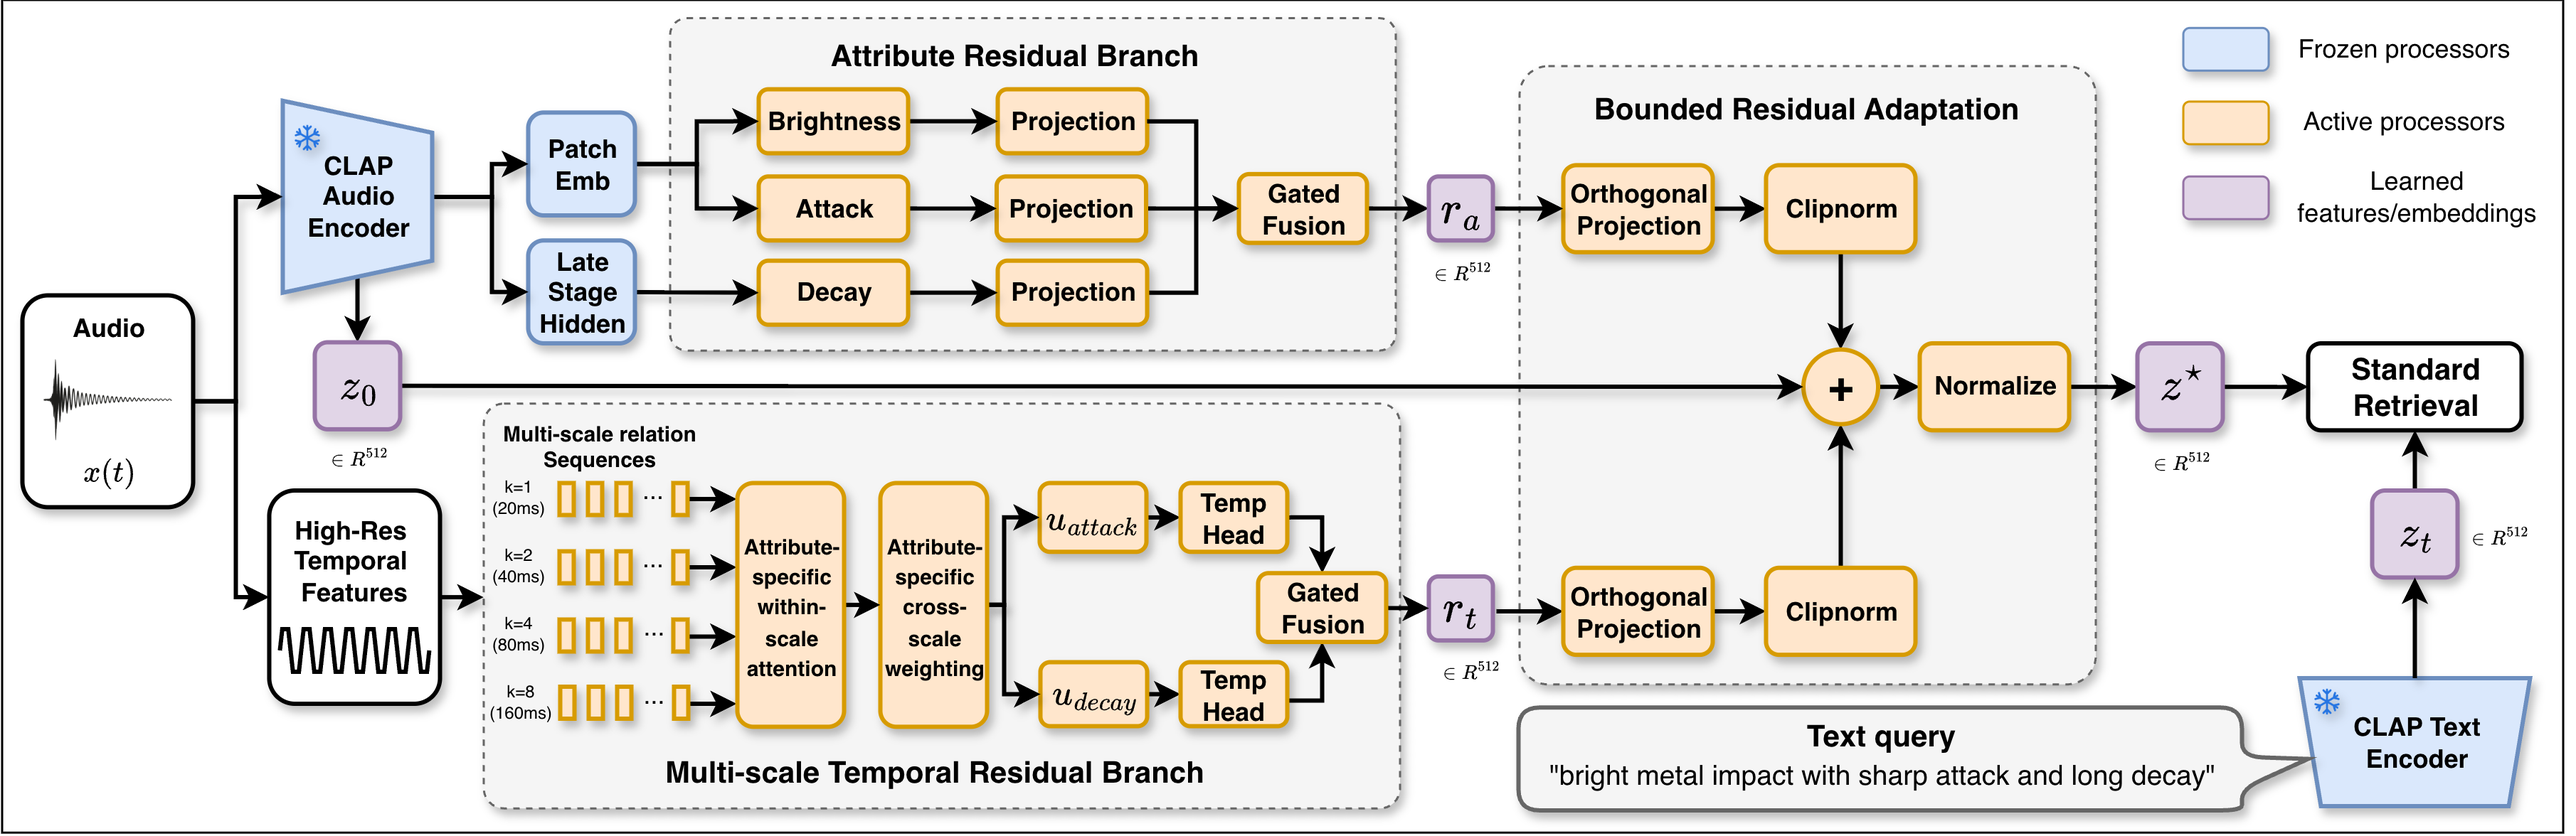
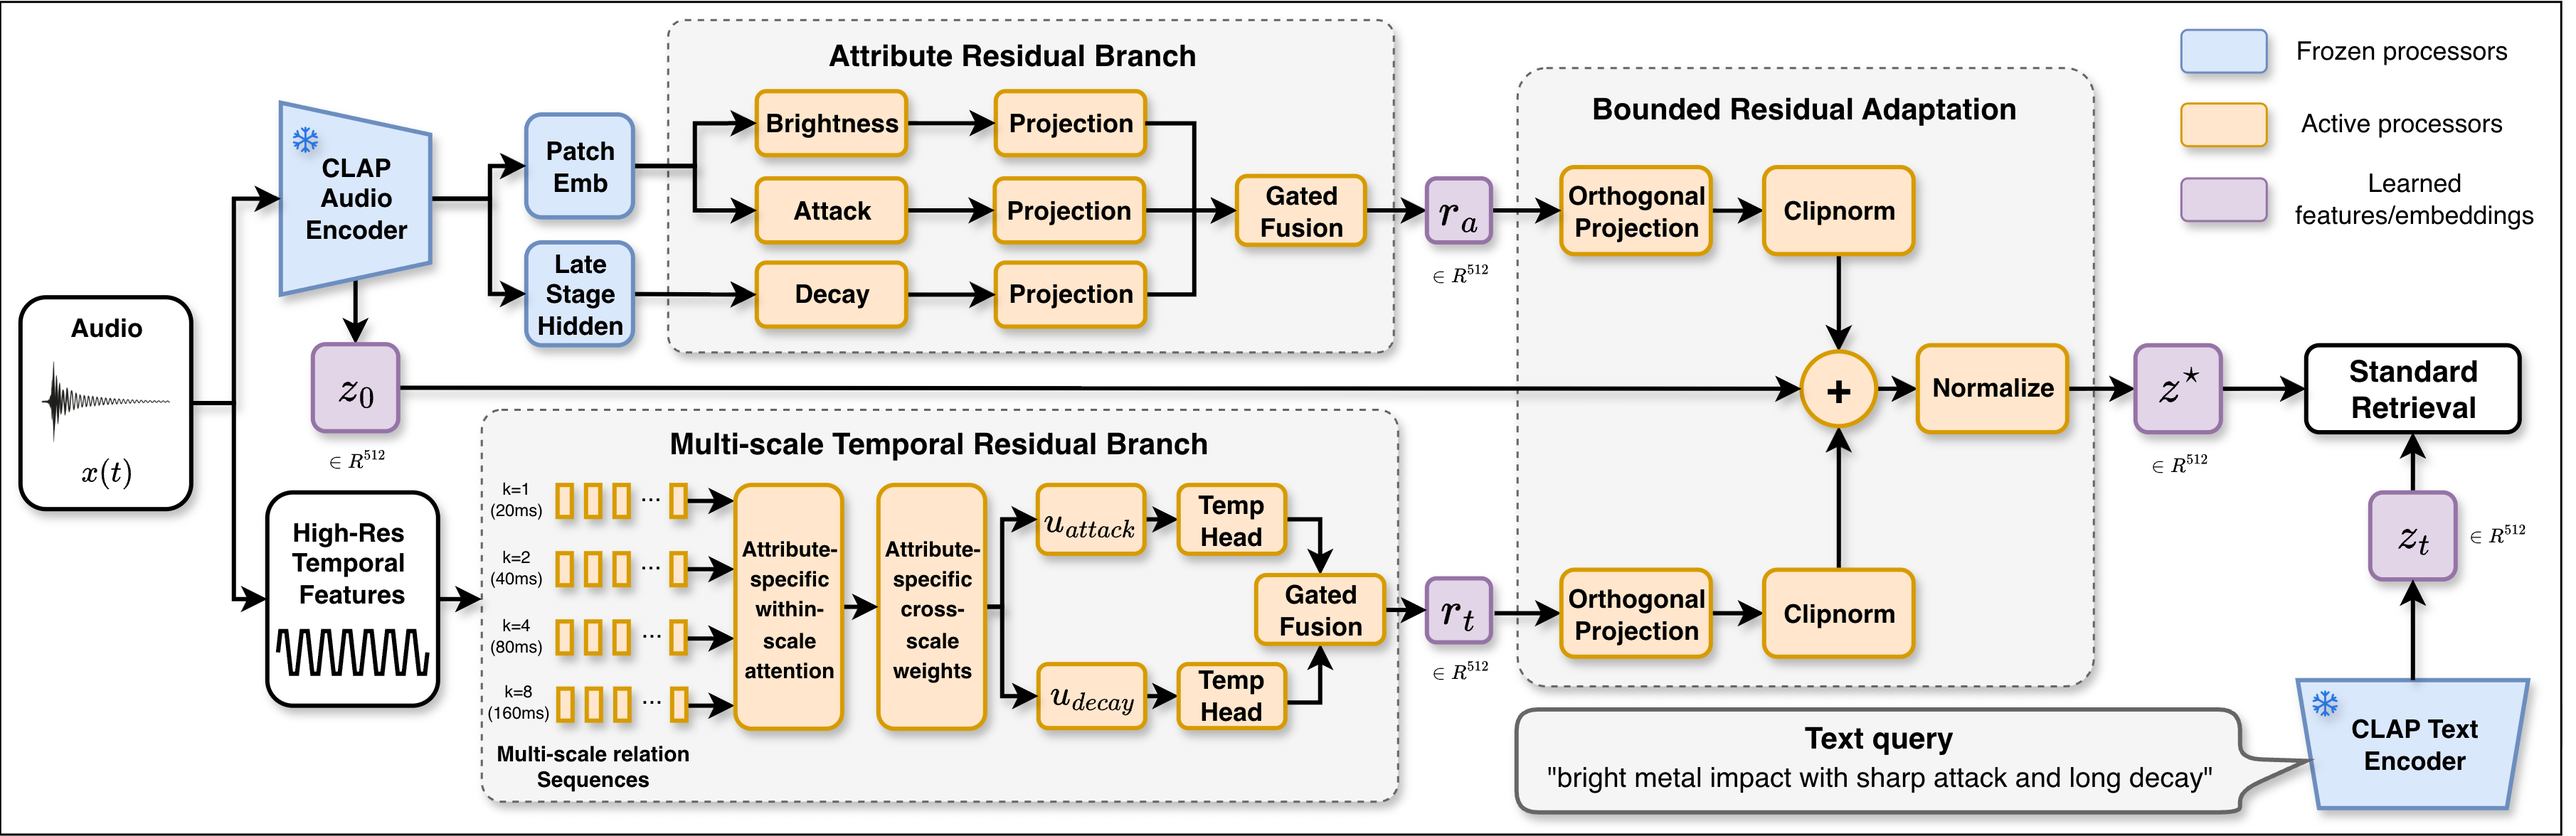
Align results page with the paper's main table
Replace the condensed ablation table with the paper's Table 1: baselines and
ResiCLAP ablations with nDCG@10 resolved per attribute, plus the tuned-budget
headline row. Drop the preservation-tradeoff figure in favour of the residual
budget sweep, and refresh the figures from the current manuscript.

Copilot-Session: bdeac7a0-323d-4f92-aabf-1b08fb008ff7

diff --git a/results.html b/results.html
@@ -25,15 +25,13 @@
 
 <section id="tradeoff">
   <h2>Does the bound matter?</h2>
-  <p>The ablation walks from an unconstrained residual to the full model. It
-  separates two mechanisms that are easy to conflate: removing the component
-  <em>parallel</em> to the frozen embedding (orthogonal projection), and
-  limiting the residual's <em>magnitude</em> (the norm bound).</p>
-  <div class="tablewrap"><table><thead><tr><th>Configuration</th><th>Fine-grained R@1</th><th>Fine-grained nDCG@10</th><th>Clotho R@1</th><th>FSD50K R@1</th></tr></thead><tbody><tr><td>Unconstrained residual</td><td>0.903</td><td>0.752</td><td>0.110</td><td>0.212</td></tr><tr><td>Orthogonal projection only</td><td>0.875</td><td>0.745</td><td>0.098</td><td>0.213</td></tr><tr><td>Norm bound only</td><td>0.472</td><td>0.425</td><td>0.315</td><td>0.378</td></tr><tr><td>+ semantic preservation</td><td>0.500</td><td>0.444</td><td>0.348</td><td>0.448</td></tr><tr><td><strong>ResiCLAP (full, + temporal)</strong></td><td><strong>0.500</strong></td><td><strong>0.450</strong></td><td><strong>0.338</strong></td><td><strong>0.450</strong></td></tr></tbody></table><p class="tnote">Frozen CLAP reference: 0.208 / 0.232 / 0.320 / 0.375.</p></div>
-  <figure class="fig ">
-  <img src="assets/img/preservation_tradeoff.png" alt="Fine-grained retrieval versus semantic retention across residual configurations. Semantic retention is the mea" loading="lazy">
-  <figcaption>Fine-grained retrieval versus semantic retention across residual configurations. Semantic retention is the mean R@1 relative to frozen CLAP on Clotho and FSD50K, where 1.0 denotes CLAP-level performance. Error bars denote 95% confidence intervals.</figcaption>
-</figure>
+  <p>The table below is the paper's main result. The upper block holds the
+  baselines, the lower block walks from an unconstrained residual to the full
+  model. The ablation separates two mechanisms that are easy to conflate:
+  removing the component <em>parallel</em> to the frozen embedding (orthogonal
+  projection), and limiting the residual's <em>magnitude</em> (the norm
+  bound).</p>
+  <div class="tablewrap"><table><thead><tr><th>Model</th><th>R@1</th><th>Att.</th><th>Dec.</th><th>Bri.</th><th>Macro</th><th>Clotho</th><th>FSD50K</th></tr></thead><tbody><tr><td>Frozen CLAP</td><td>0.208</td><td>0.235</td><td>0.233</td><td>0.229</td><td>0.232</td><td>0.320</td><td>0.375</td></tr><tr><td>FineLAP</td><td>0.208</td><td>0.271</td><td>0.134</td><td>0.242</td><td>0.216</td><td>&mdash;</td><td>&mdash;</td></tr><tr><td>Rerank baseline</td><td>0.417</td><td>0.352</td><td>0.385</td><td>0.368</td><td>0.368</td><td>&mdash;</td><td>&mdash;</td></tr><tr><td>Unconstrained residual</td><td>0.903</td><td>0.804</td><td>0.753</td><td>0.698</td><td>0.752</td><td>0.110</td><td>0.212</td></tr><tr><td>Orth. projection only</td><td>0.875</td><td>0.807</td><td>0.766</td><td>0.661</td><td>0.745</td><td>0.098</td><td>0.213</td></tr><tr><td>Norm bound only</td><td>0.472</td><td>0.455</td><td>0.389</td><td>0.431</td><td>0.425</td><td>0.315</td><td>0.378</td></tr><tr><td>w/o MTR</td><td>0.500</td><td>0.561</td><td>0.359</td><td>0.412</td><td>0.444</td><td>0.348</td><td>0.448</td></tr><tr><td>ResiCLAP (reference)</td><td>0.500</td><td>0.608</td><td>0.366</td><td>0.377</td><td>0.450</td><td>0.347</td><td>0.450</td></tr><tr><td><strong>ResiCLAP (tuned)</strong></td><td><strong>0.667</strong></td><td><strong>0.719</strong></td><td><strong>0.519</strong></td><td><strong>0.409</strong></td><td><strong>0.549</strong></td><td><strong>0.352</strong></td><td><strong>0.473</strong></td></tr></tbody></table><p class="tnote">Fine-grained retrieval: R@1 plus nDCG@10 resolved per attribute &mdash; attack, decay, brightness &mdash; and Macro, their mean. Clotho and FSD50K are broad-retrieval R@1. &mdash; is not evaluated. Fine-grained retrieval uses 400 held-out RealImpact test recordings and 24 queries; broad retrieval uses 200 Clotho and 200 FSD50K examples. Ablations use the reference budgets (&rho;<sub>a</sub>, &rho;<sub>t</sub>) = (0.20, 0.05); tuned budgets are (0.30, 0.40). ResiCLAP rows are means over three seeds.</p></div>
   <p class="callout">An unconstrained residual reaches the best fine-grained
   score of all (0.752) but collapses broad retrieval to 34% and 56% of CLAP's
   Clotho and FSD50K performance. Orthogonal projection alone barely helps
@@ -44,21 +42,40 @@
   semantic structure.</strong></p>
 </section>
 
+<section id="budgets">
+  <h2>Choosing the budget</h2>
+  <p>The norm bound &rho; is the one knob that trades fine-grained accuracy
+  against general retrieval. Sweeping it traces a frontier, and comparing that
+  frontier against simply rescaling an unconstrained residual shows what the
+  projection and bound actually buy.</p>
+  <figure class="fig ">
+  <img src="assets/img/residual_frontier.png" alt="Fine-grained nDCG@10 against general retrieval, expressed as a percentage of frozen CLAP R@1, across the attri" loading="lazy">
+  <figcaption>Fine-grained nDCG@10 against general retrieval, expressed as a percentage of frozen CLAP R@1, across the attribute-budget sweep (&rho;) and an unconstrained residual rescaled by &lambda;. Every swept setting is labelled. Error bars denote 95% confidence intervals. The ringed point is the selected operating point.</figcaption>
+</figure>
+  <p class="callout">The selection rule is fixed in advance: keep at least 95%
+  of frozen CLAP's R@1 on both Clotho and FSD50K. That rules out the
+  highest-accuracy setting &mdash; &rho; = 1.2 reaches 0.749 nDCG@10 but drops
+  general retrieval to 84% &mdash; and selects <strong>&rho;<sub>a</sub> =
+  0.30</strong>, which holds general retrieval at essentially CLAP level. The
+  operating point is chosen by the preservation constraint, not by maximum
+  accuracy.</p>
+</section>
+
 <section>
   <h2>Does it generalise?</h2>
   <p>Three settings test progressively harder transfer: unseen physical objects,
   unseen recording contributors, and entirely unseen sound categories.</p>
   <figure class="fig ">
   <img src="assets/img/rotation_results.png" alt="Generalization across objects, recording conditions and sound categories. (a) Absolute nDCG@10 for frozen CLAP" loading="lazy">
-  <figcaption>Generalization across objects, recording conditions and sound categories. (a) Absolute nDCG@10 for frozen CLAP, two-stage property scoring and ResiCLAP. (b) Paired difference in nDCG@10 between ResiCLAP and each baseline; positive values favour ResiCLAP. Horizontal intervals denote 95% confidence intervals.</figcaption>
+  <figcaption>Generalization across objects, recording conditions and sound categories. (a) Absolute nDCG@10 for frozen CLAP, the rerank baseline and ResiCLAP. (b) Paired difference in nDCG@10 between ResiCLAP and each comparison system; positive values favour ResiCLAP. Thick and thin intervals are 95% confidence intervals resampled over queries and over clusters (material or category).</figcaption>
 </figure>
-  <div class="tablewrap"><table><thead><tr><th>Setting</th><th>Queries</th><th>Result</th></tr></thead><tbody><tr><td>Unseen objects (5 RealImpact splits)</td><td>120</td><td>ResiCLAP beats both baselines in all five splits; gains vary by material from +0.012 to +0.267 nDCG@10.</td></tr><tr><td>Unseen contributors (FSD50K)</td><td>1,250</td><td>Beats two-stage scoring in all five splits and 39 of 51 categories. Strongest for attack (+0.058) and brightness (+0.042); decay is flat (&minus;0.003).</td></tr><tr><td>Unseen categories (FSD50K)</td><td>266</td><td>Still beats frozen CLAP, but falls below two-stage scoring in every split.</td></tr></tbody></table></div>
+  <div class="tablewrap"><table><thead><tr><th>Setting</th><th>Queries</th><th>Result</th></tr></thead><tbody><tr><td>Unseen objects (5 RealImpact splits)</td><td>120</td><td>ResiCLAP beats both baselines in all five splits; gains vary by material from +0.012 to +0.267 nDCG@10.</td></tr><tr><td>Unseen contributors (FSD50K)</td><td>1,250</td><td>Beats the rerank baseline in all five splits and 39 of 51 categories. Strongest for attack (+0.058) and brightness (+0.042); decay is flat (&minus;0.003).</td></tr><tr><td>Unseen categories (FSD50K)</td><td>266</td><td>Still beats frozen CLAP, but falls below the rerank baseline in every split.</td></tr></tbody></table></div>
   <p class="callout warn"><strong>An honest limitation.</strong> When the sound
   category itself is new, explicit property scoring wins. It measures
   properties directly and so depends less on category structure seen during
   training. ResiCLAP transfers well to new examples and new recording
   conditions within familiar categories, but not yet to unfamiliar ones. Note
-  also that the two-stage baseline consumes the same signal measurements that
+  also that the rerank baseline consumes the same signal measurements that
   define the ground truth, which makes it a demanding, measurement-privileged
   comparison.</p>
 </section>

diff --git a/index.html b/index.html
@@ -63,18 +63,18 @@
 
 <section>
   <h2>Headline result</h2>
-  <div class="tablewrap"><table><thead><tr><th>Model</th><th>Fine-grained R@1</th><th>Fine-grained nDCG@10</th><th>Clotho R@1</th><th>FSD50K R@1</th></tr></thead><tbody><tr><td>Frozen CLAP</td><td>0.208</td><td>0.232</td><td>0.320</td><td>0.375</td></tr><tr><td>FineLAP</td><td>0.208</td><td>0.216</td><td>&ndash;</td><td>&ndash;</td></tr><tr><td>Two-stage property scoring</td><td>0.417</td><td>0.368</td><td>&ndash;</td><td>&ndash;</td></tr><tr><td><strong>ResiCLAP (full)</strong></td><td><strong>0.500</strong></td><td><strong>0.450</strong></td><td><strong>0.338</strong></td><td><strong>0.450</strong></td></tr></tbody></table><p class="tnote">Fine-grained retrieval: 400 held-out RealImpact test recordings, 24 text queries, mean over three seeds. Broad retrieval: 200 Clotho and 200 FSD50K examples. Broad retrieval is not reported for FineLAP, which modifies the text encoder, nor for two-stage scoring, which keeps the CLAP index and only rescores property queries.</p></div>
-  <p>nDCG@10 on fine-grained retrieval rises from 0.232 to 0.450 &mdash; a gain
-  of +0.218 (95% CI [0.117, 0.321]) &mdash; while Clotho and FSD50K retrieval
+  <div class="tablewrap"><table><thead><tr><th>Model</th><th>Fine-grained R@1</th><th>Fine-grained nDCG@10</th><th>Clotho R@1</th><th>FSD50K R@1</th></tr></thead><tbody><tr><td>Frozen CLAP</td><td>0.208</td><td>0.232</td><td>0.320</td><td>0.375</td></tr><tr><td>FineLAP</td><td>0.208</td><td>0.216</td><td>&ndash;</td><td>&ndash;</td></tr><tr><td>Rerank baseline</td><td>0.417</td><td>0.368</td><td>&ndash;</td><td>&ndash;</td></tr><tr><td>ResiCLAP (reference budgets)</td><td>0.500</td><td>0.450</td><td>0.347</td><td>0.450</td></tr><tr><td><strong>ResiCLAP (tuned budgets)</strong></td><td><strong>0.667</strong></td><td><strong>0.549</strong></td><td><strong>0.352</strong></td><td><strong>0.473</strong></td></tr></tbody></table><p class="tnote">Fine-grained retrieval: 400 held-out RealImpact test recordings, 24 text queries, mean over three seeds. Broad retrieval: 200 Clotho and 200 FSD50K examples. Broad retrieval is not reported for FineLAP, which modifies the text encoder, nor for the rerank baseline, which keeps the CLAP index and only rescores property queries.</p></div>
+  <p>nDCG@10 on fine-grained retrieval rises from 0.232 to 0.549 &mdash; a gain
+  of +0.317 (95% CI [0.192, 0.447]) &mdash; while Clotho and FSD50K retrieval
   stay at or above frozen-CLAP levels.</p>
 </section>
 
 <section>
   <h2>At a glance</h2>
   <div class="stats">
-    <div><strong>&lt;1%</strong>
+    <div><strong>0.37%</strong>
       <span>of CLAP parameters trained</span></div>
-    <div><strong>+0.218</strong>
+    <div><strong>+0.317</strong>
       <span>fine-grained nDCG@10 over frozen CLAP</span></div>
     <div><strong>400</strong>
       <span>held-out test recordings</span></div>
@@ -279,8 +279,10 @@
     &rho;<sub>b</sub> ),
     &nbsp;&nbsp; b &isin; {a, t}
   </div>
-  <p>with &rho;<sub>a</sub> = 0.20 for the attribute residual and
-  &rho;<sub>t</sub> = 0.05 for the temporal residual. The bounded residuals are
+  <p>with &rho;<sub>a</sub> bounding the attribute residual and
+  &rho;<sub>t</sub> the temporal residual. Ablations use the reference budgets
+  (0.20, 0.05); the headline model uses the tuned budgets (0.30, 0.40)
+  selected by the sweep on the results page. The bounded residuals are
   added to the anchor and re-normalised:</p>
   <div class="eq">
     z<sup>&#9733;</sup> = ( z<sub>0</sub> + r&#773;<sub>a</sub> +
@@ -327,7 +329,7 @@
 
 <section>
   <h3>Training setup</h3>
-  <div class="tablewrap"><table><thead><tr><th>Setting</th><th>Value</th></tr></thead><tbody><tr><td>Backbone</td><td>LAION-CLAP <code>clap-htsat-fused</code> (frozen)</td></tr><tr><td>Trained parameters</td><td>residual branches and gates only</td></tr><tr><td>Optimiser</td><td>AdamW, lr 1e&minus;4, weight decay 1e&minus;4</td></tr><tr><td>Gradient clipping</td><td>global norm 5.0</td></tr><tr><td>Epochs</td><td>100</td></tr><tr><td>Alignment temperature</td><td>0.07</td></tr><tr><td>Attribute bound &rho;<sub>a</sub></td><td>0.20</td></tr><tr><td>Temporal bound &rho;<sub>t</sub></td><td>0.05</td></tr><tr><td>Seeds</td><td>7, 17, 27</td></tr></tbody></table></div>
+  <div class="tablewrap"><table><thead><tr><th>Setting</th><th>Value</th></tr></thead><tbody><tr><td>Backbone</td><td>LAION-CLAP <code>clap-htsat-fused</code> (frozen)</td></tr><tr><td>Trained parameters</td><td>residual branches and gates only</td></tr><tr><td>Optimiser</td><td>AdamW, lr 1e&minus;4, weight decay 1e&minus;4</td></tr><tr><td>Gradient clipping</td><td>global norm 5.0</td></tr><tr><td>Epochs</td><td>100</td></tr><tr><td>Alignment temperature</td><td>0.07</td></tr><tr><td>Attribute bound &rho;<sub>a</sub></td><td>0.20 reference / 0.30 tuned</td></tr><tr><td>Temporal bound &rho;<sub>t</sub></td><td>0.05 reference / 0.40 tuned</td></tr><tr><td>Seeds</td><td>7, 17, 27</td></tr></tbody></table></div>
 </section>
 
 </main>
